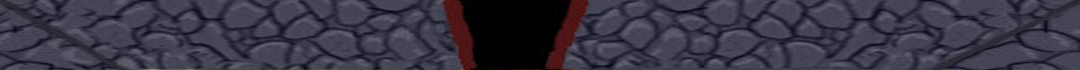
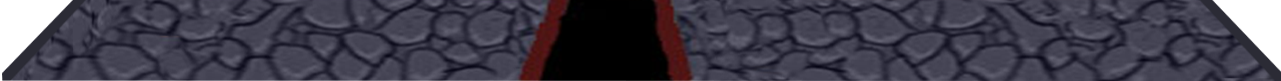
Trolley Trouble 8
- arreglado el embestir

diff --git a/miJuego/Classes/GameScene.cpp b/miJuego/Classes/GameScene.cpp
@@ -84,6 +84,7 @@ bool GameScene::init()
 	addChild(enemigo->sprite);
 
 	Enemigo* enemigo2 = new Enemigo();
+	enemigo2->sprite = Sprite::create("paredtest12.png");
 	auto bodyenemigo2 = PhysicsBody::createBox(enemigo2->sprite->getBoundingBox().size);
 	bodyenemigo2->setContactTestBitmask(true);
 	bodyenemigo2->setDynamic(false);
@@ -92,7 +93,7 @@ bool GameScene::init()
 	addChild(enemigo2->sprite);
 
 	Enemigo* enemigo3 = new Enemigo();
-	enemigo3->sprite = Sprite::create("paredtest2.png");
+	enemigo3->sprite = Sprite::create("pared test22.png");
 	auto bodyenemigo3 = PhysicsBody::createBox(enemigo3->sprite->getBoundingBox().size);
 	bodyenemigo3->setContactTestBitmask(true);
 	bodyenemigo3->setDynamic(false);
@@ -166,11 +167,14 @@ void GameScene::onKeyPressed(EventKeyboard::KeyCode keyCode, Event *event) {
 		break;
 
 	case EventKeyboard::KeyCode::KEY_SPACE:
-		velocidadanterior = prota->velocidad;
-		prota->velocidad = 100;
-		if (prota->getOrientacion() == 'e') prota->sprite->setTexture("embestirDerecho.png");
-		else if (prota->getOrientacion() == 'w') prota->sprite->setTexture("embestirIzquierdo.png");
-		this->schedule(schedule_selector(GameScene::frenar), 0.02f);
+		if (placando == false) {
+			placando = true;
+			velocidadanterior = prota->velocidad;
+			prota->velocidad = 3;
+			if (prota->getOrientacion() == 'e') prota->sprite->setTexture("embestirDerecho.png");
+			else if (prota->getOrientacion() == 'w') prota->sprite->setTexture("embestirIzquierdo.png");
+			this->schedule(schedule_selector(GameScene::frenar), 0.5f);
+		}
 		break;
 
 	}
@@ -179,8 +183,10 @@ void GameScene::onKeyPressed(EventKeyboard::KeyCode keyCode, Event *event) {
 }
 
 void GameScene::frenar(float dt) {
+	this->unschedule(schedule_selector(GameScene::frenar));
 	prota->velocidad = velocidadanterior;
 	prota->cambiarSprite();
+	placando = false;
 }
 
 
@@ -188,26 +194,26 @@ void GameScene::update(float dt) {
 	Size visibleSize = Director::getInstance()->getVisibleSize();
 
 	if (prota->getOrientacion() == 'e') {
-		prota->posicion = Vec2(prota->posicion.x + prota->velocidad, prota->posicion.y);
+		prota->posicion = Vec2(prota->posicion.x + 5 * prota->velocidad, prota->posicion.y);
 		prota->sprite->setPosition(prota->posicion);
 
 	}
 
 	else if (prota->getOrientacion() == 'w') {
-		prota->posicion = Vec2(prota->posicion.x - prota->velocidad, prota->posicion.y);
+		prota->posicion = Vec2(prota->posicion.x - 5*prota->velocidad, prota->posicion.y);
 		prota->sprite->setPosition(prota->posicion);
 
 
 	}
 
 	else if (prota->getOrientacion() == 'n') {
-		prota->posicion = Vec2(prota->posicion.x, prota->posicion.y + prota->velocidad);
+		prota->posicion = Vec2(prota->posicion.x, prota->posicion.y + 5*prota->velocidad);
 		prota->sprite->setPosition(prota->posicion);
 
 	}
 
 	else if (prota->getOrientacion() == 's') {
-		prota->posicion = Vec2(prota->posicion.x, prota->posicion.y - prota->velocidad);
+		prota->posicion = Vec2(prota->posicion.x, prota->posicion.y - 5*prota->velocidad);
 		prota->sprite->setPosition(prota->posicion);
 	}
 
@@ -217,6 +223,7 @@ void GameScene::update(float dt) {
 }
 
 bool GameScene::onContactBegin(PhysicsContact &contact) {
+	if (placando == true) frenar(0.0);
 
 	if (prota->getOrientacion() == 'e') {
 		prota->setOrientacion('w');

diff --git a/miJuego/Classes/Prota.h b/miJuego/Classes/Prota.h
@@ -23,7 +23,7 @@ public:
 	Sprite* imagenIzquierda;
 	Sprite* imagenDerecha;
 	Sprite* imagenReverso;
-	int velocidad;
+	float velocidad;
 	Vec2 posicion;
 	Prota();
 	~Prota();

diff --git a/miJuego/Classes/Prota.cpp b/miJuego/Classes/Prota.cpp
@@ -7,7 +7,7 @@ Prota::Prota()
 	sprite = Sprite::create("vagoneta.png");
 	vida = 100;
 	orientacion = 'e';
-	velocidad = 5;
+	velocidad = 1;
 	energia = 100;
 		
 }

diff --git a/miJuego/Classes/GameScene.h b/miJuego/Classes/GameScene.h
@@ -12,6 +12,7 @@ private:
 	PhysicsWorld *mWorld;
 	PhysicsBody *body;
 	int velocidadanterior;
+	bool placando = false;
 
 	
 public:
